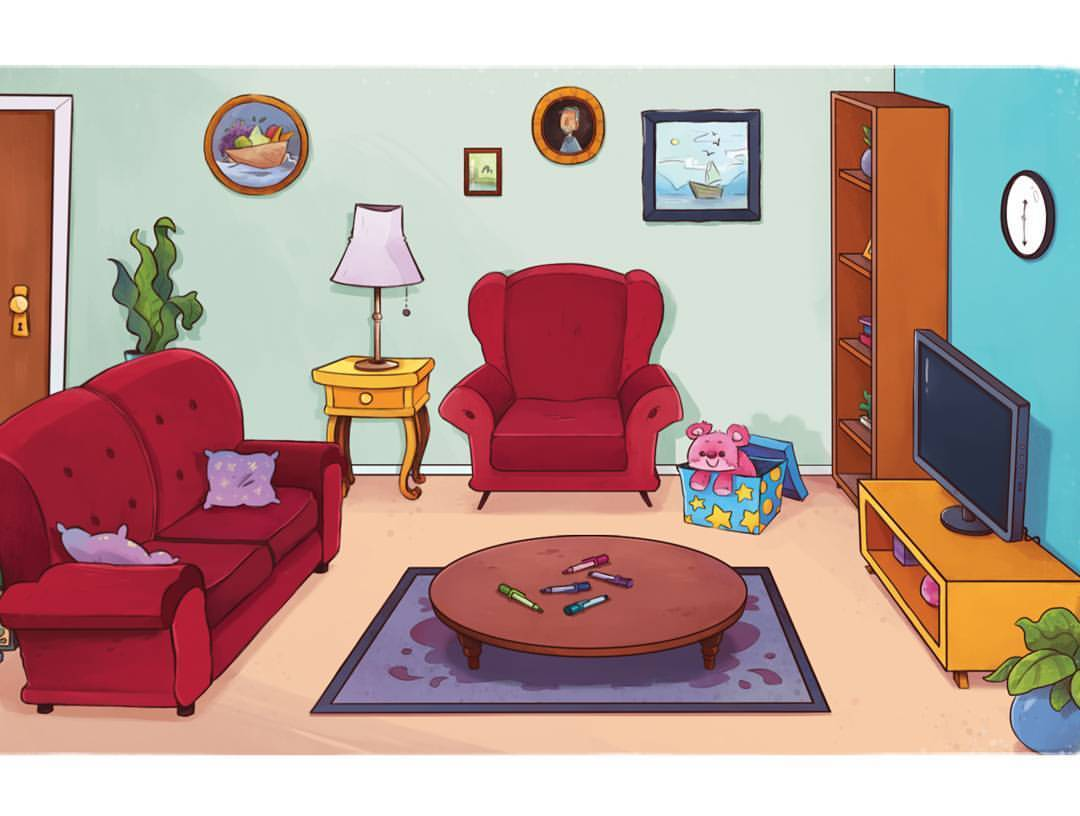
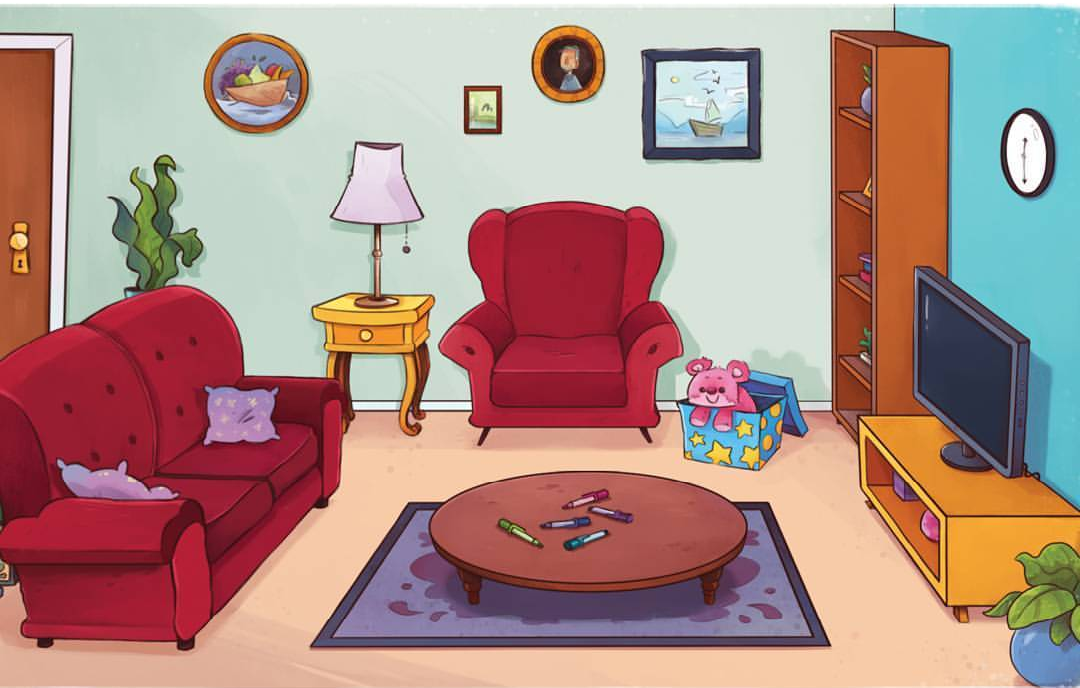
edited backgrounds

diff --git a/docs/css/style.css b/docs/css/style.css
@@ -11,7 +11,7 @@ furniture {
 }
 
 background {
-    background-image: url(../assets/clock.png);
+    background-image: url(../assets/1.png);
     background-size: 100% 100%;
     width: 100vw; height: 100vh;
     position: absolute; top: 0; left: 0;
